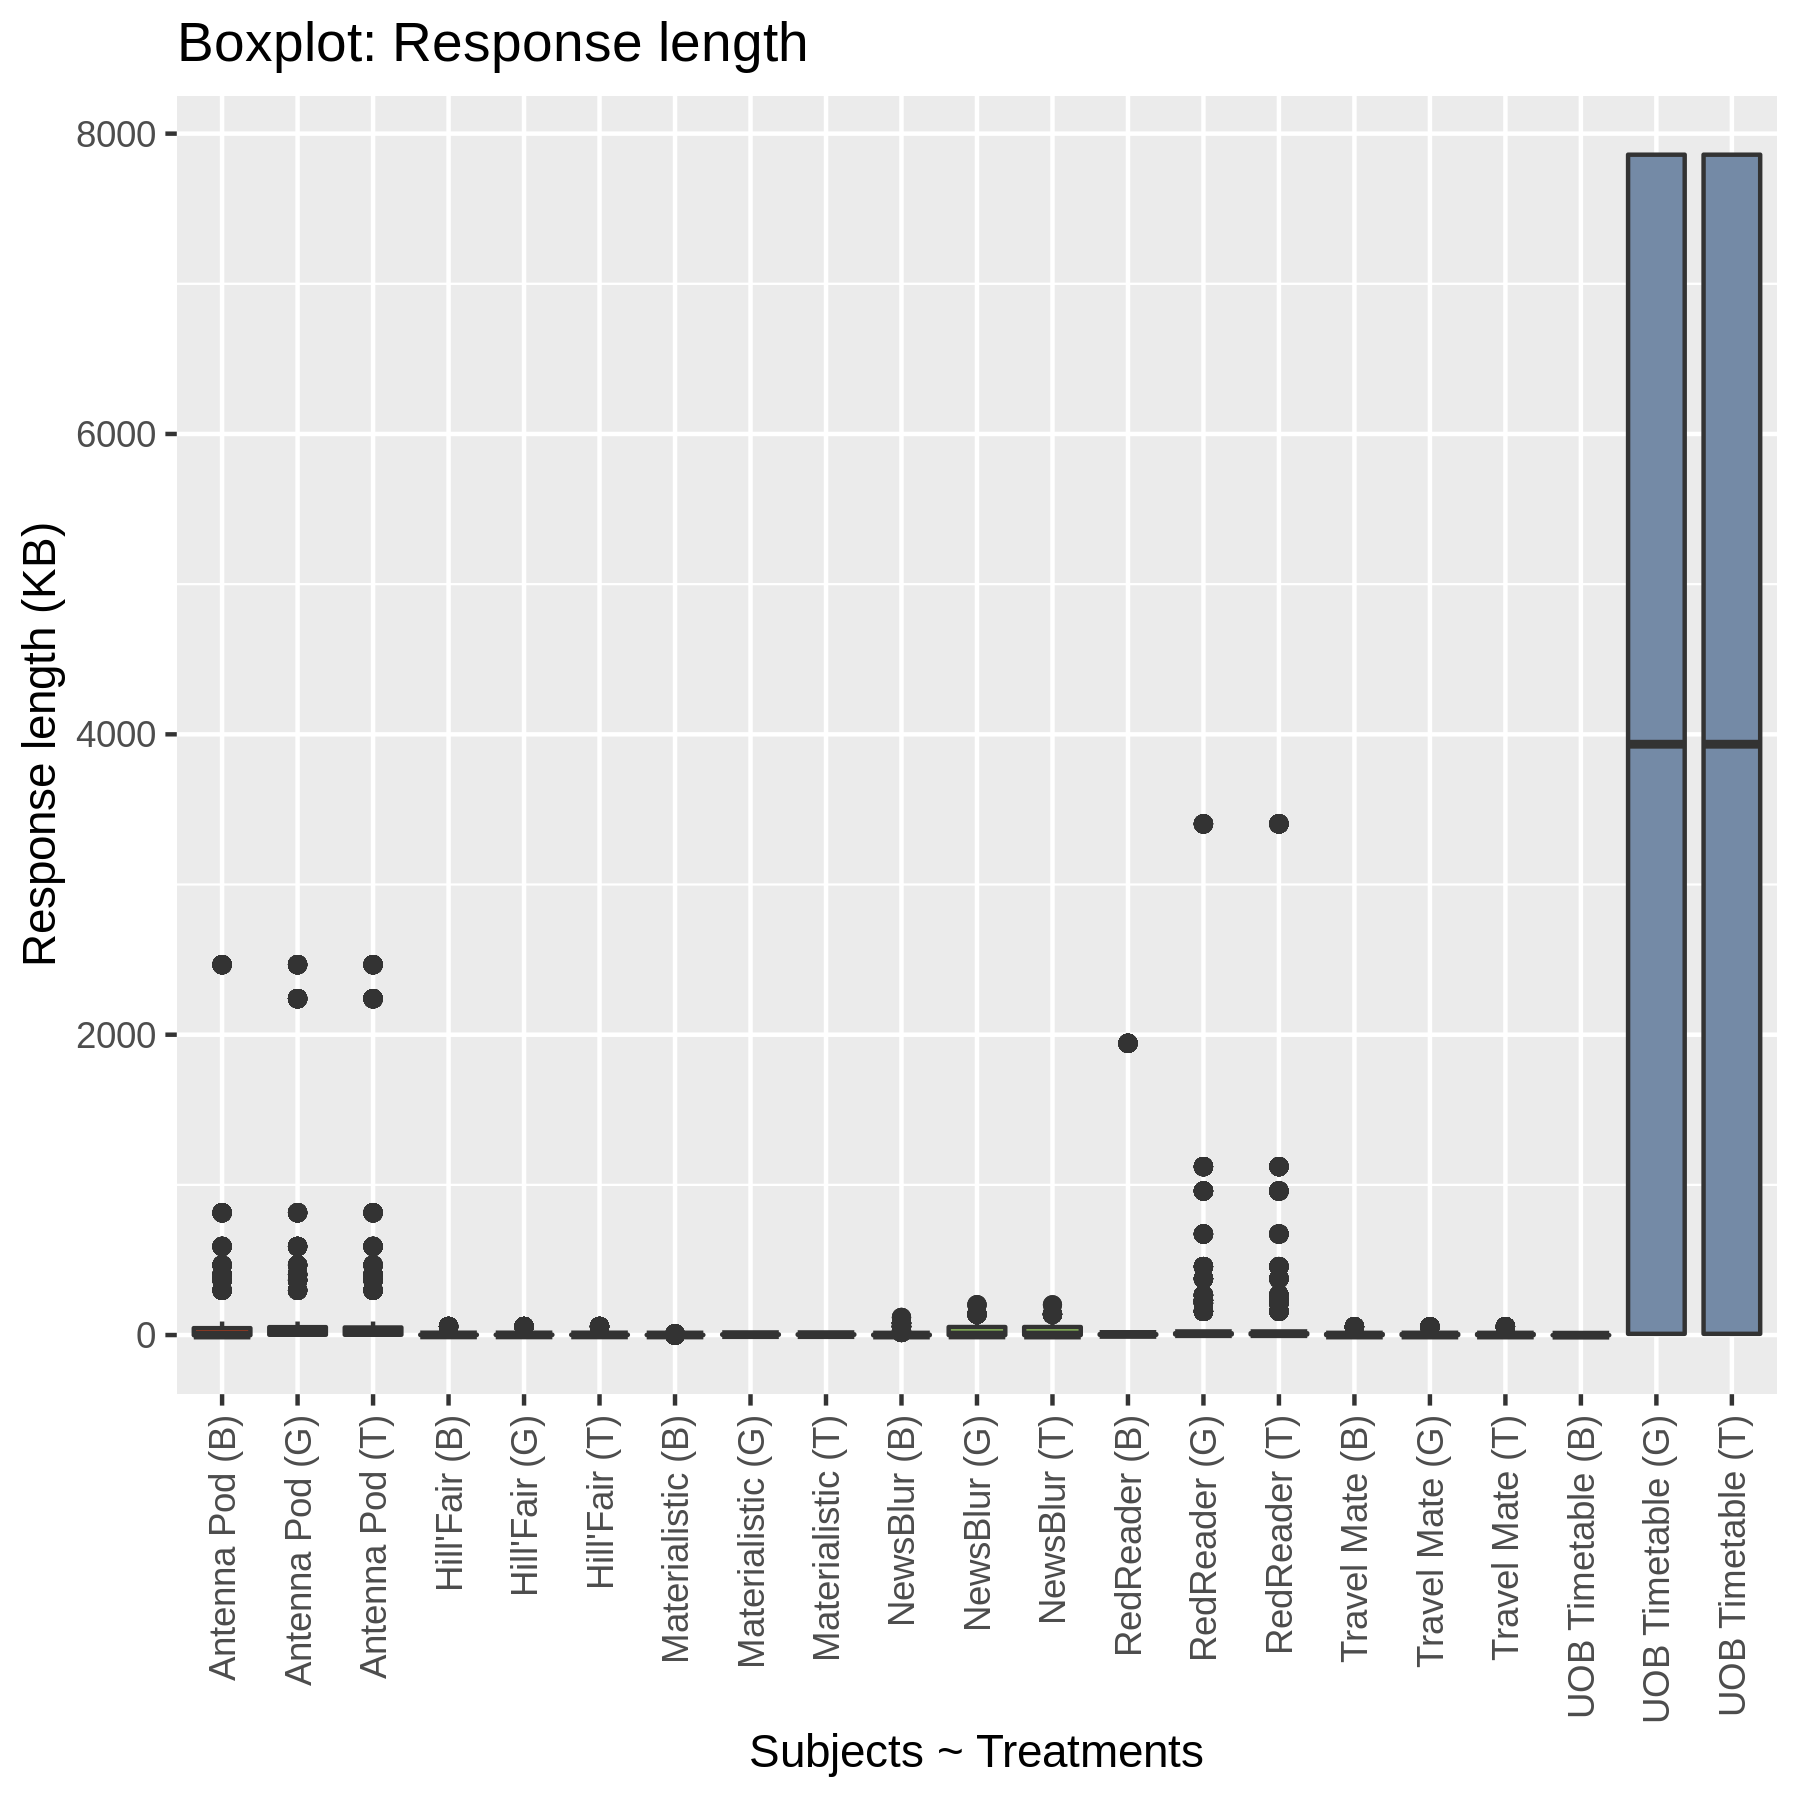
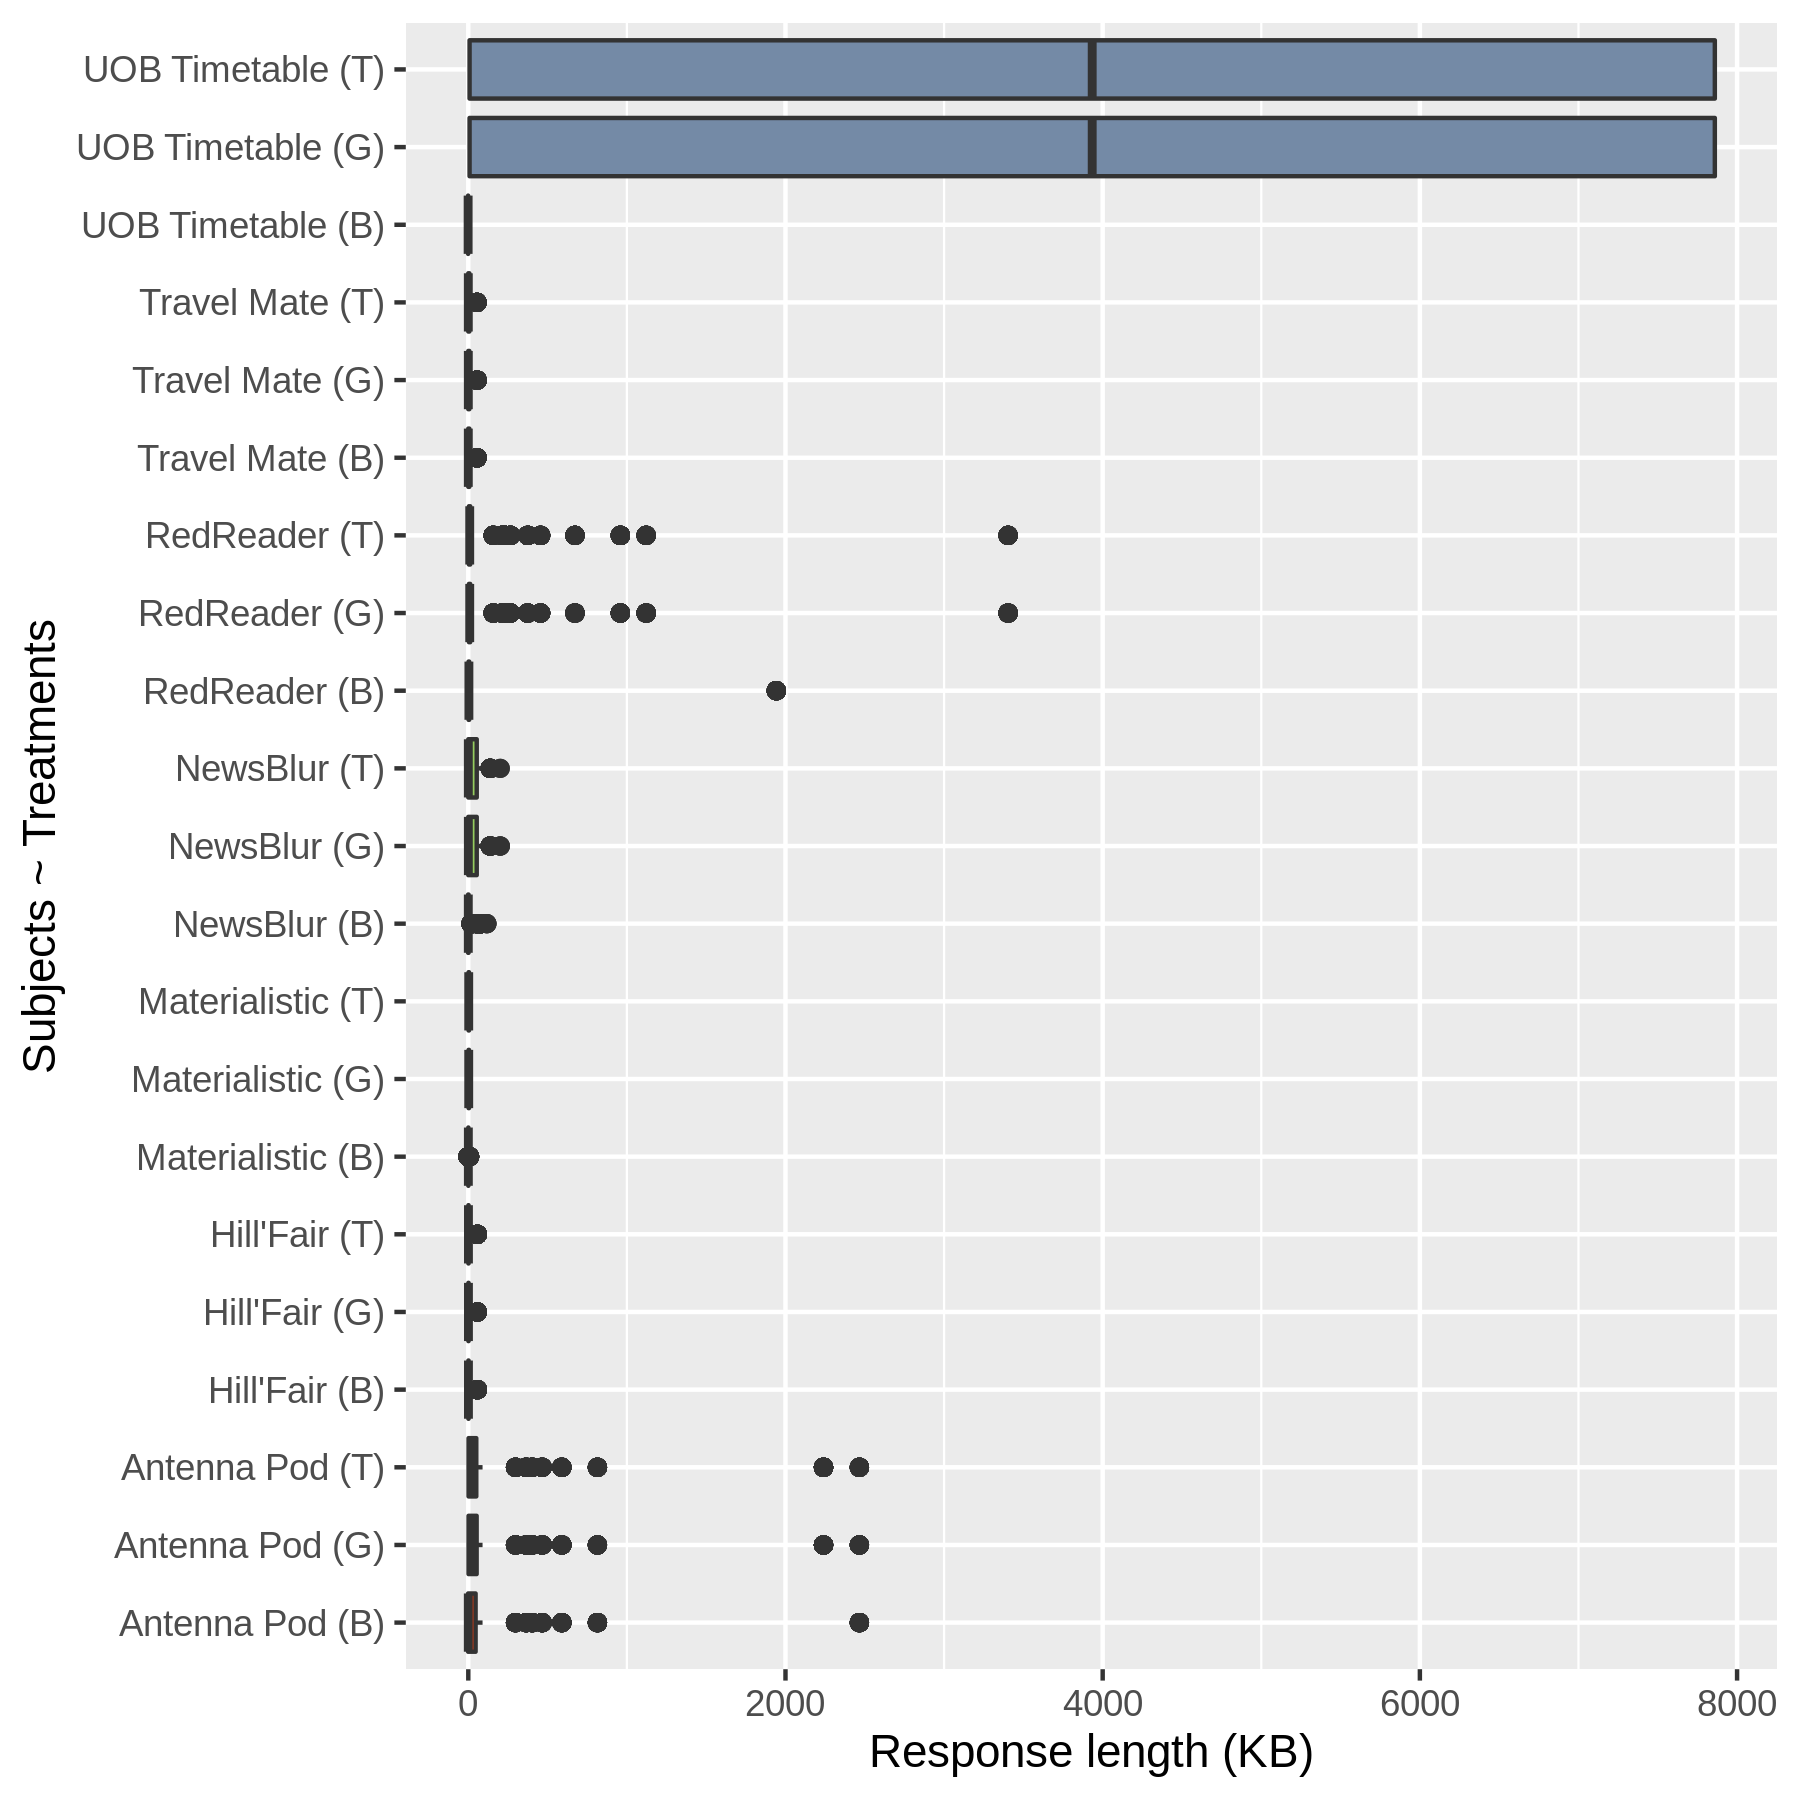
Remove invalid run, invert axis in plots

diff --git a/data-analysis/output/rq2/summary_subject_url_duration.tex b/data-analysis/output/rq2/summary_subject_url_duration.tex
@@ -1,5 +1,5 @@
 % latex table generated in R 4.0.2 by xtable 1.8-4 package
-% Sun Aug  9 16:07:11 2020
+% Tue Aug 11 19:50:51 2020
 \begin{table}[ht]
 \centering
 \begin{tabular}{rrrrrrrrrrrrrrrrrrrrrr}
@@ -7,8 +7,8 @@
  & Antenna Pod (B) & Antenna Pod (G) & Antenna Pod (T) & Hill'Fair (B) & Hill'Fair (G) & Hill'Fair (T) & Materialistic (B) & Materialistic (G) & Materialistic (T) & NewsBlur (B) & NewsBlur (G) & NewsBlur (T) & RedReader (B) & RedReader (G) & RedReader (T) & Travel Mate (B) & Travel Mate (G) & Travel Mate (T) & UOB Timetable (B) & UOB Timetable (G) & UOB Timetable (T) \\ 
   \hline
 Request duration (ms) Min. & 33.00 & 1.00 & 1.00 & 38.00 & 240.00 & 243.00 & 20.00 & 5.00 & 7.00 & 21.00 & 1.00 & 1.00 & 131.00 & 2.00 & 1.00 & 396.00 & 1.00 & 1.00 & 166.00 & 1.00 & 1.00 \\ 
-  Request duration (ms) Median & 278.00 & 260.00 & 260.00 & 801.50 & 271.00 & 273.50 & 157.00 & 645.00 & 666.00 & 430.00 & 481.00 & 457.00 & 829.00 & 749.00 & 776.50 & 691.50 & 4.00 & 4.00 & 246.00 & 322.00 & 323.00 \\ 
-  Request duration (ms) Mean & 315.83 & 284.65 & 290.01 & 664.46 & 519.74 & 533.42 & 185.52 & 611.13 & 610.29 & 368.41 & 421.79 & 384.69 & 842.55 & 802.40 & 819.91 & 703.12 & 205.37 & 207.65 & 267.49 & 365.72 & 370.54 \\ 
+  Request duration (ms) Median & 278.00 & 260.00 & 260.00 & 801.50 & 271.00 & 273.50 & 157.00 & 645.00 & 666.00 & 430.00 & 480.00 & 457.00 & 829.00 & 749.00 & 776.50 & 691.50 & 4.00 & 4.00 & 246.00 & 322.00 & 323.00 \\ 
+  Request duration (ms) Mean & 315.83 & 284.65 & 290.01 & 664.46 & 519.74 & 533.42 & 185.52 & 611.13 & 610.29 & 368.41 & 418.43 & 384.69 & 842.55 & 802.40 & 819.91 & 703.12 & 205.37 & 207.65 & 267.49 & 365.72 & 370.54 \\ 
   Request duration (ms) Max. & 2042.00 & 5484.00 & 2131.00 & 1360.00 & 1344.00 & 1343.00 & 3286.00 & 1553.00 & 1113.00 & 2235.00 & 2605.00 & 976.00 & 3000.00 & 2731.00 & 5018.00 & 3467.00 & 1029.00 & 2620.00 & 640.00 & 1353.00 & 1312.00 \\ 
    \hline
 \end{tabular}

diff --git a/data-analysis/output/rq2/summary_subject_url_length.tex b/data-analysis/output/rq2/summary_subject_url_length.tex
@@ -1,5 +1,5 @@
 % latex table generated in R 4.0.2 by xtable 1.8-4 package
-% Sun Aug  9 16:07:11 2020
+% Tue Aug 11 19:50:51 2020
 \begin{table}[ht]
 \centering
 \begin{tabular}{rrrrrrrrrrrrrrrrrrrrr}
@@ -8,7 +8,7 @@
   \hline
 Response length (KB) Min. & 0.00 & 0.00 & 0.00 & 0.55 & 0.55 & 0.55 & 0.08 & 1.80 & 1.80 & 0.04 & 0.05 & 0.05 & 1.71 & 0.62 & 0.62 & 0.00 & 0.00 & 0.00 & 5.40 & 5.40 \\ 
   Response length (KB) Median & 45.99 & 42.30 & 42.30 & 0.98 & 0.98 & 0.98 & 0.41 & 2.75 & 2.75 & 0.24 & 0.40 & 0.24 & 4.99 & 9.01 & 9.01 & 0.11 & 0.18 & 0.11 & 3933.95 & 3933.95 \\ 
-  Response length (KB) Mean & 211.16 & 281.97 & 280.45 & 9.78 & 9.78 & 9.78 & 0.56 & 2.98 & 2.98 & 14.66 & 25.31 & 24.80 & 28.32 & 97.82 & 97.82 & 5.34 & 5.42 & 5.34 & 3933.50 & 3933.50 \\ 
+  Response length (KB) Mean & 211.16 & 281.97 & 280.45 & 9.78 & 9.78 & 9.78 & 0.56 & 2.98 & 2.98 & 14.66 & 25.32 & 24.80 & 28.32 & 97.82 & 97.82 & 5.34 & 5.42 & 5.34 & 3933.50 & 3933.50 \\ 
   Response length (KB) Max. & 2466.12 & 2466.12 & 2466.12 & 56.74 & 56.74 & 56.74 & 7.88 & 4.50 & 4.50 & 117.05 & 201.42 & 201.42 & 1942.31 & 3403.68 & 3403.68 & 55.02 & 55.02 & 55.02 & 7859.79 & 7859.79 \\ 
    \hline
 \end{tabular}

diff --git a/data-analysis/output/rq2/summary_treatment.tex b/data-analysis/output/rq2/summary_treatment.tex
@@ -1,5 +1,5 @@
 % latex table generated in R 4.0.2 by xtable 1.8-4 package
-% Sun Aug  9 16:07:11 2020
+% Tue Aug 11 19:50:51 2020
 \begin{table}[ht]
 \centering
 \begin{tabular}{rrrr}
@@ -7,12 +7,12 @@
  & Baseline & Greedy & TFPR \\ 
   \hline
 Request duration (ms) Min. & 20.00 & 1.00 & 1.00 \\ 
-  Request duration (ms) Median & 231.00 & 419.00 & 421.00 \\ 
-  Request duration (ms) Mean & 362.30 & 529.99 & 537.44 \\ 
+  Request duration (ms) Median & 231.00 & 418.00 & 421.00 \\ 
+  Request duration (ms) Mean & 362.30 & 529.98 & 537.44 \\ 
   Request duration (ms) Max. & 3467.00 & 5484.00 & 5018.00 \\ 
   Response length (KB) Min. & 0.00 & 0.00 & 0.00 \\ 
   Response length (KB) Median & 0.53 & 6.71 & 6.59 \\ 
-  Response length (KB) Mean & 16.27 & 196.95 & 196.29 \\ 
+  Response length (KB) Mean & 16.27 & 197.28 & 196.29 \\ 
   Response length (KB) Max. & 2466.12 & 7859.79 & 7859.79 \\ 
    \hline
 \end{tabular}

diff --git a/data-analysis/output/rq2/summary_treatment_url.tex b/data-analysis/output/rq2/summary_treatment_url.tex
@@ -1,5 +1,5 @@
 % latex table generated in R 4.0.2 by xtable 1.8-4 package
-% Sun Aug  9 16:07:11 2020
+% Tue Aug 11 19:50:51 2020
 \begin{table}[ht]
 \centering
 \begin{tabular}{rlll}
@@ -7,7 +7,7 @@
  & Treatent & Unique URLs & Total URLs \\ 
   \hline
 1 & Baseline & 571 & 19138 \\ 
-  2 & Greedy & 236 & 7603 \\ 
+  2 & Greedy & 236 & 7589 \\ 
   3 & TFPR & 236 & 7593 \\ 
    \hline
 \end{tabular}
